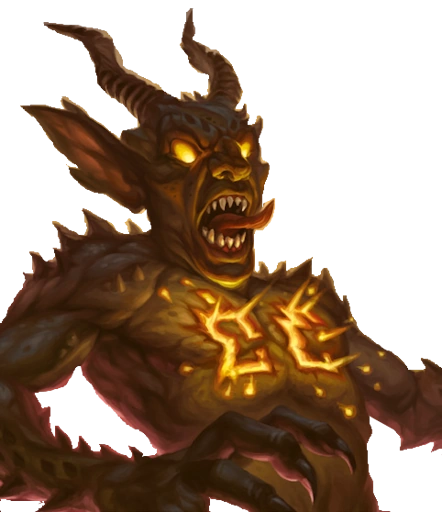
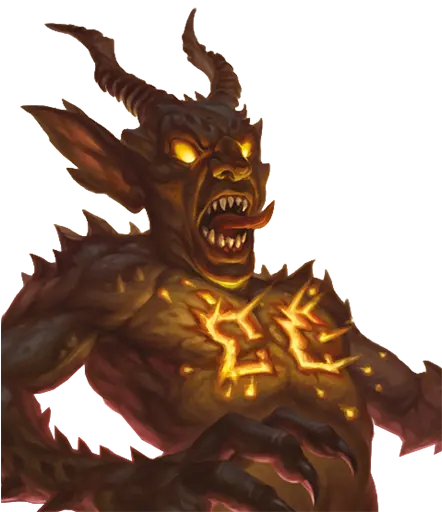
Amélioration des images des rencontres
Merci Sasmira

diff --git a/CHANGELOG.md b/CHANGELOG.md
@@ -1,3 +1,7 @@
+# 1.5.1
+- Modification des prétirés : ajout des capacités avec une résolution Sauvegarde
+- Amélioration des images des rencontres (merci Sasmira)
+
 # 1.5.0
 - Ajout des Actions de Sauvegarde pour les profils et les voies de prestige
 - Ajout des Actions de Sauvegarde pour les capacités de rencontre et mise à jour des rencontres
